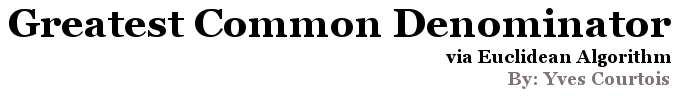
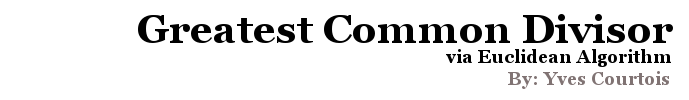
fixed typo

Changed region(s): [[0.0, 0.09, 0.9753, 0.45]]

diff --git a/README.md b/README.md
@@ -1,4 +1,4 @@
 gcd
 ===
 
-Demonstrates Greatest Common Factor via Euclidean Algorithm implemented in JavaScript
+Demonstrates Greatest Common Divisor via Euclidean Algorithm implemented in JavaScript
